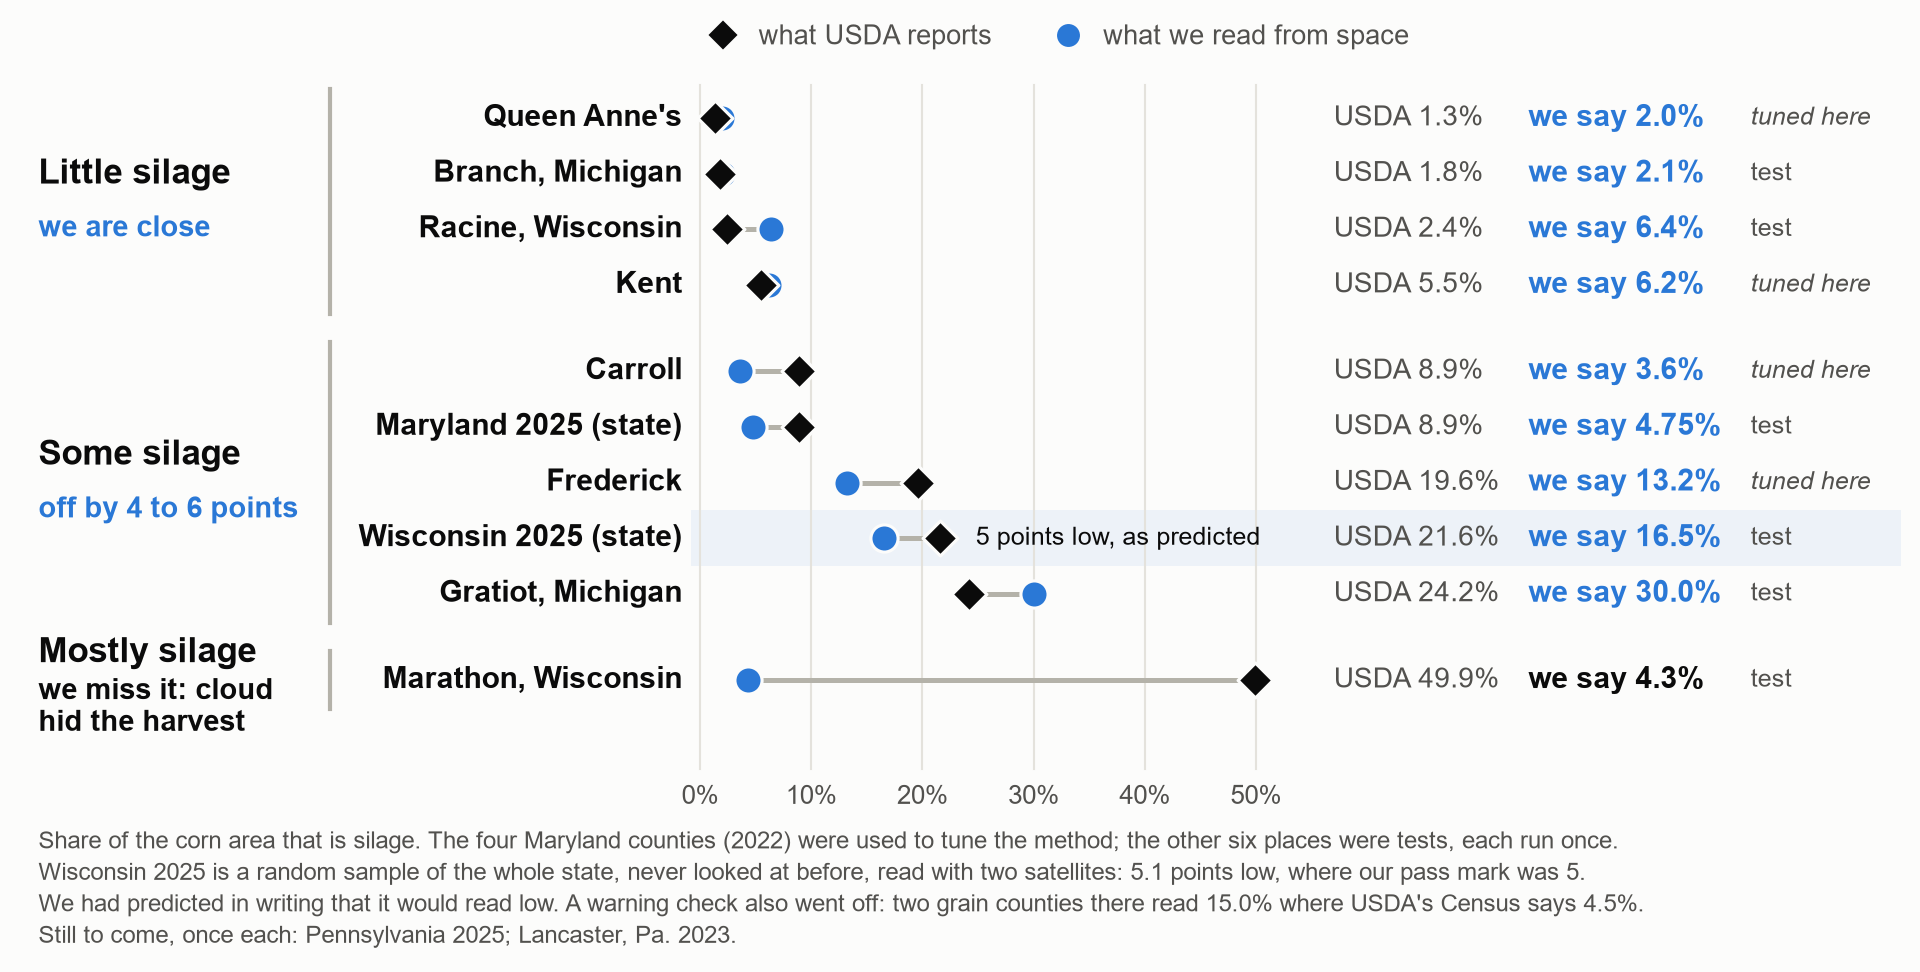
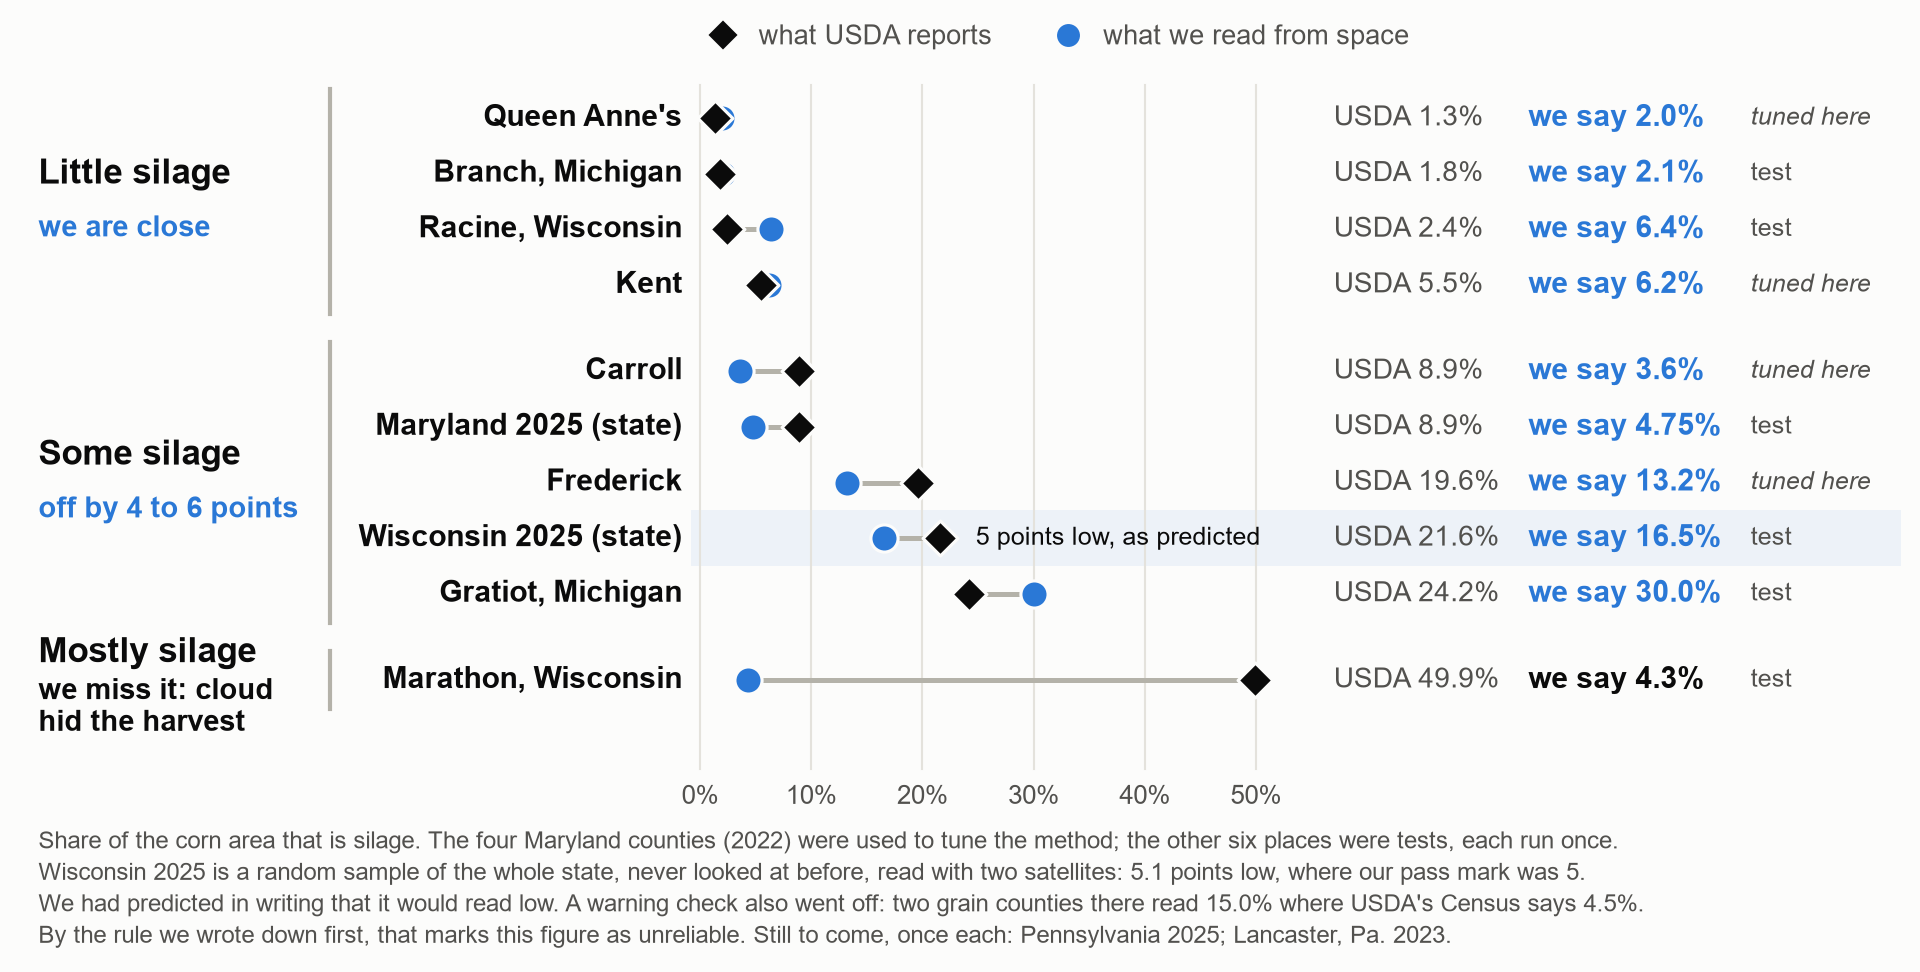
Deck: the Wisconsin 2025 figure is marked unreliable by the rule written first, said on the scoreboard, the places slide and the rules slide
The warning check on two grain counties went off, and the rule locked before the test says what that means. Sources and figures only; the delivered deck is rebuilt with the next two results.

Changed region(s): [[0.0312, 0.9568, 0.75, 0.9877]]

diff --git a/docs/pitch/build_deck.py b/docs/pitch/build_deck.py
@@ -262,9 +262,11 @@ def build(out):
     notes(s, "Then we tried to break it. We compared ten places with USDA's own numbers. "
              "We are close where silage is rare. In dairy country we read low. "
              "For all of Wisconsin in 2025, a state we had never looked at, we say 16.5 percent and USDA says 21.6. "
-             "We wrote down before the test that it would read low.",
+             "We wrote down before the test that it would read low. A warning check we had set up also went off there. "
+             "By the rule we wrote down first, that marks this figure as unreliable.",
           "然后我们想办法把它考倒：拿十个地方和美国农业部自己的数字对比。青贮少的地方我们很接近；在奶牛产区我们读得偏低。"
-          "2025 年的威斯康星全州，我们之前从没看过：我们读出 16.5%，美国农业部是 21.6%。测试之前我们就写下了预测：会偏低。")
+          "2025 年的威斯康星全州，我们之前从没看过：我们读出 16.5%，美国农业部是 21.6%。测试之前我们就写下了预测：会偏低。"
+          "我们事先设的一个预警也在那里触发了；按我们事先写下的规则，这个数字要标为“不可靠”。")
 
     # 7  a second satellite for the cloudy counties --------------------------------------------------------------
     s = new_slide(prs, "A second satellite sees past the clouds: in the three cloudy counties our figure moved towards USDA's")
@@ -494,22 +496,25 @@ def build(out):
     picture(s, "s10_maryland_test.png", MX, 1.4, ph * 1920 / 972)
     text(s, MX + ph * 1920 / 972 + 0.3, 1.6, FULL - ph * 1920 / 972 - 0.3, 3.0, "Every test rule went into a log, with the time, before the "
          "test ran.\n\nThe 44 labelled fields were scored four times, each time logged, and never used for training.\n\n"
-         "Failures are shown as failures.", size=15, color=INK, spacing=1.15)
+         "Failures are shown as failures. In Wisconsin 2025 a warning check we had written first went off, so by our own rule "
+         "that figure is marked unreliable.", size=15, color=INK, spacing=1.15)
     text(s, MX, 4.8, FULL, 0.35, "From the log: the rule first, then the test", size=14, bold=True, color=INK)
     logged = [("16:12", "16:40", "Queen Anne's", "failed"), ("17:30", "18:11", "Kent", "failed"),
               ("18:25", "19:11", "Michigan", "passed"), ("18:25", "19:14", "Maryland 2025", "reads low"),
-              ("22:55", "22:58", "Wisconsin 2023", "failed"), ("00:18", "01:43", "Wisconsin 2025", "5.1 low, mark 5")]
+              ("22:55", "22:58", "Wisconsin 2023", "failed"), ("00:18", "01:43", "Wisconsin 2025", "5.1 low, mark 5,\nunreliable")]
     sw = (FULL - 5 * 0.2) / 6
     for i, (rule_at, test_at, what, result) in enumerate(logged):
         x = MX + i * (sw + 0.2)
         good = result == "passed"
         card(s, x, 5.25, sw, 1.65, fill=BLUE if good else WHITE, line=None if good else GREY)
-        text(s, x + 0.2, 5.38, sw - 0.3, 0.35, f"{rule_at}  rule written", size=12, color=WHITE if good else INK2)
-        text(s, x + 0.2, 5.68, sw - 0.3, 0.35, f"{test_at}  test run once", size=12, color=WHITE if good else INK2)
-        text(s, x + 0.2, 6.08, sw - 0.3, 0.75, f"{what}:\n{result}", size=14, bold=True, color=WHITE if good else INK)
+        text(s, x + 0.2, 5.33, sw - 0.3, 0.35, f"{rule_at}  rule written", size=12, color=WHITE if good else INK2)
+        text(s, x + 0.2, 5.6, sw - 0.3, 0.35, f"{test_at}  test run once", size=12, color=WHITE if good else INK2)
+        text(s, x + 0.2, 5.95, sw - 0.3, 0.85, f"{what}:\n{result}", size=14, bold=True, color=WHITE if good else INK)
     notes(s, "Every test rule was written in a log before the test ran. "
-             "The 44 labelled fields were scored four times, each time logged.",
-          "每条检验规则都在检验之前写进了日志。44 个带标签的地块一共打了四次分，每次都有记录。")
+             "The 44 labelled fields were scored four times, each time logged. "
+             "In Wisconsin 2025 our own warning check went off, so by our rule that figure is marked unreliable.",
+          "每条检验规则都在检验之前写进了日志。44 个带标签的地块一共打了四次分，每次都有记录。"
+          "2025 年威斯康星的测试里，我们自己设的预警触发了，所以按我们的规则，那个数字标为“不可靠”。")
 
     s = new_slide(prs, "Maryland 2025, the state USDA scores: we read low")
     body_picture(s, "state_2025.png")

diff --git a/docs/pitch/deck_figs.py b/docs/pitch/deck_figs.py
@@ -102,7 +102,7 @@ def places():
             ax.scatter([ours], [y], s=150, color=BLUE, edgecolors=BG, linewidths=1.5, zorder=5)
             ax.text(ours_x, y, pct(ours), fontsize=14.5, fontweight="bold", color=BLUE, ha="right", va="center")
             if name == "Wisconsin 2025":
-                ax.text(beside_x, y, f"{wi['points_low']} points low; our pass mark was {wi['pass_mark']}", fontsize=12.5,
+                ax.text(beside_x, y, f"{wi['points_low']} low (pass mark {wi['pass_mark']}); unreliable by our rule", fontsize=12.5,
                         color=INK, va="center")
     ax.text(usda_x, top + 0.75, "USDA", fontsize=13, color=INK2, ha="right", va="center")
     ax.text(ours_x, top + 0.75, "Ours", fontsize=13, fontweight="bold", color=BLUE, ha="right", va="center")
@@ -225,13 +225,14 @@ def scoreboard():
                labelcolor=INK2, handletextpad=0.3, columnspacing=1.8)
     waiting = [p[0] for p in N.PLACES_TO_OPEN if p[3] is None]
     tests = {5: "five", 6: "six", 7: "seven", 8: "eight"}[sum(1 for r in rows if r[0] == "test")]
-    more = f"\nStill to come, once each: {'; '.join(waiting)}." if waiting else ""
+    more = f" Still to come, once each: {'; '.join(waiting)}." if waiting else ""
     fig.text(0.02, 0.02, "Share of the corn area that is silage. The four Maryland counties (2022) were used to tune the method; "
              f"the other {tests} places were tests, each run once.\n"
              "Wisconsin 2025 is a random sample of the whole state, never looked at before, read with two satellites: "
              f"{wi['points_low']} points low, where our pass mark was {wi['pass_mark']}.\n"
              "We had predicted in writing that it would read low. A warning check also went off: two grain counties there read "
-             f"{wi['guard']['ours']}% where USDA's Census says {wi['guard']['census']}%." + more,
+             f"{wi['guard']['ours']}% where USDA's Census says {wi['guard']['census']}%.\n"
+             "By the rule we wrote down first, that marks this figure as unreliable." + more,
              fontsize=11.5, color=INK2, va="bottom", linespacing=1.4)
     put(fig, "s06_scoreboard")
 

diff --git a/docs/pitch/README.md b/docs/pitch/README.md
@@ -9,8 +9,9 @@ in. Still to come: Pennsylvania 2025 and Lancaster County 2023.
 **Newer than the rest of this page:** the Wisconsin 2023 test failed (Marathon County read 4.3 %
 where USDA has 32.1 to 49.9 %). The Wisconsin 2025 state sample, never looked at before and run
 once, read 16.5 % where USDA has 21.6 %: 5.1 points low against a pass mark of 5, as we had
-predicted in writing; a warning check on two grain counties also went off (15.0 % for 4.5 %). The
-slide deck is up to date; the figures, `script.md` and `limits.md` of the first pack were written
+predicted in writing; a warning check on two grain counties also went off (15.0 % for 4.5 %),
+which by the rule written first marks the figure as unreliable, and the deck says so. The slide
+deck is up to date; the figures, `script.md` and `limits.md` of the first pack were written
 before both.
 
 ## The three sentences the model part stands on
